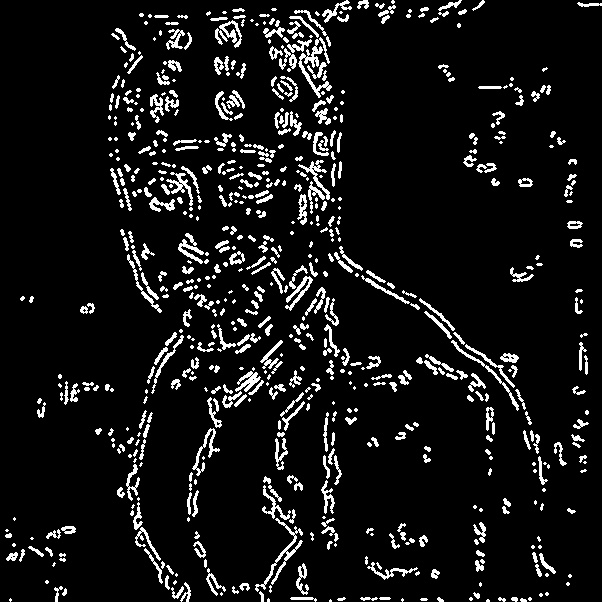
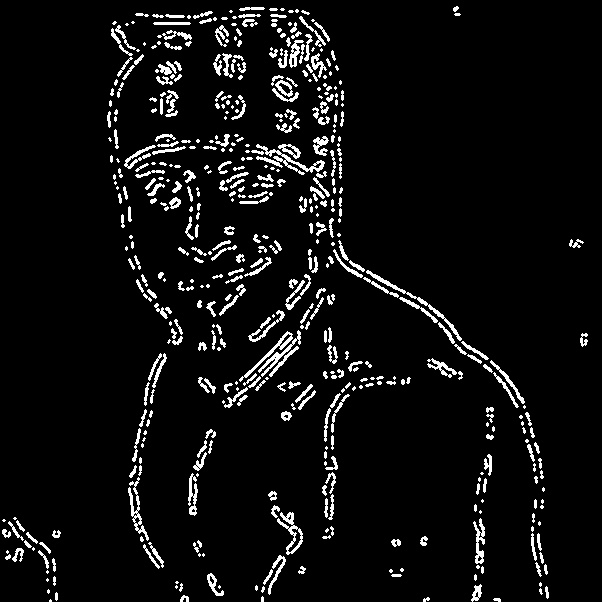
works beautifully, but I don't know how

diff --git a/face_full_processing.py b/face_full_processing.py
@@ -14,7 +14,7 @@ import facemesh
 # filename = askopenfilename()
 filename = "ricardo.jpg"
 blur_radius = 1 # must be an odd number
-face_blur_radius = 1
+face_blur_radius = 7
 lower_thresh = 0
 upper_thresh = 40 # after extensive research, I am fairly certian that you only need to change this value...
 
@@ -23,16 +23,16 @@ Kernel_size=15
 low_threshold=40
 high_threshold=120
 
-rho=10
-threshold=15
-theta=np.pi/180
-minLineLength=10
-maxLineGap=1
+rho = 2
+threshold = 2 # lower is more sensitive
+theta = np.pi / 180
+minLineLength = 10
+maxLineGap = 1
 
 
 #TODO: Figure out why this breaks with a smaller number
 splitDistance = 5 # number of pixels apart when points are broken into seperate segments
-areaCut = 5
+areaCut = 2
 minSegmentLen = 10 # minimum number of points (processed proir to angle and distance cuts) in a segment in order for it to be preserved
 
 def distance(x1, y1, x2, y2):
@@ -147,10 +147,11 @@ for line in lines:
 
 cv2.imwrite("lines.jpg", frame)
 print(lines)
+cv2.imwrite('edges.jpg', edged)
 
-poop = edges.copy()
+edges = edged.copy()
 
-cv2.imwrite('edges.jpg', edges)
+
 points = []
 for y in range(len(edges)):
     for x in range(len(edges[y])):
